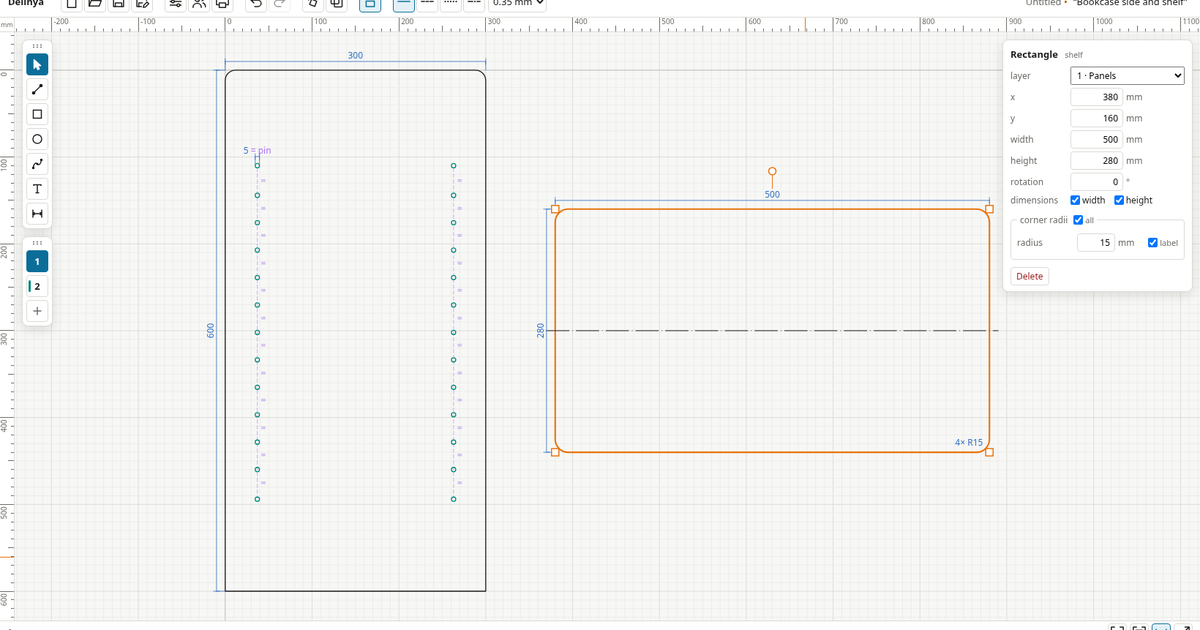
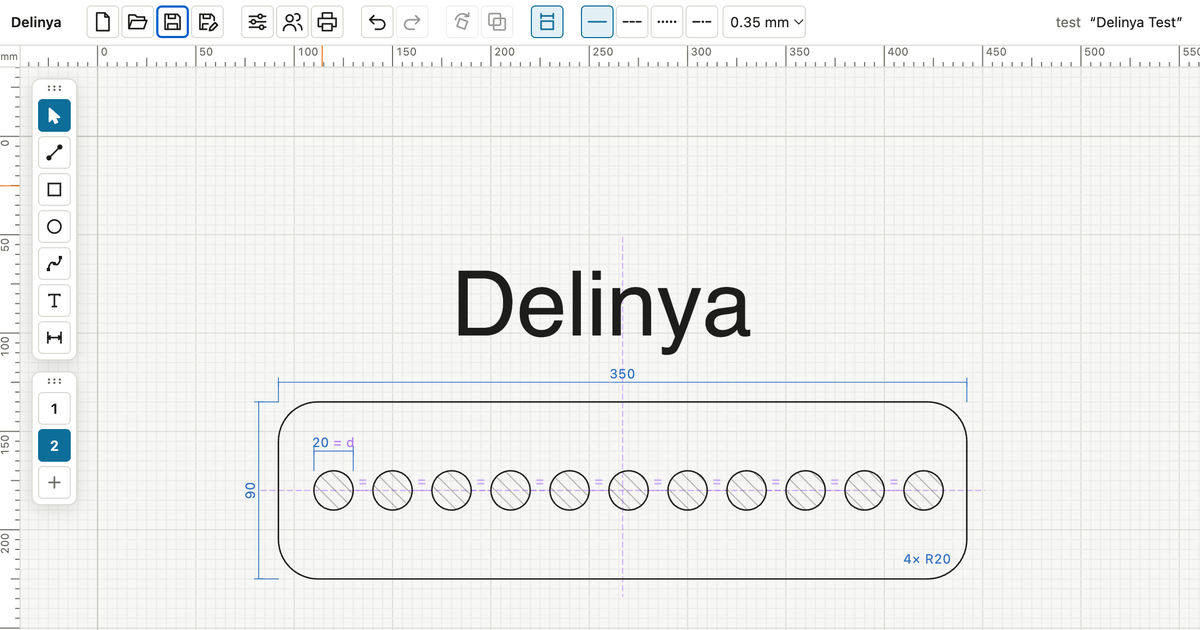
delinya.org: new hero screenshot and OpenGraph image
A plate with R20 corners and a row of linked, evenly spaced holes,
cleaned of the window's rounded corners and bottom border. The hero
gains a 1240w size for retina screens; opengraph.png is its top crop.

diff --git a/plans/status.md b/plans/status.md
@@ -1122,9 +1122,11 @@ reference generator and screenshot scripts.
   `ThemeSelect.astro` renders nothing (overrides in `astro.config.mjs`);
   `src/styles/starlight.css` sets the accent and greys. Logo and favicon
   are the app's `public/favicon.svg` (copied; a test checks they match).
-  The hero (`src/assets/hero.png`) and `public/opengraph.png` are a
-  screenshot of the app (a bookcase side with linked shelf-pin holes and a
-  4× R15 shelf), made on the dev server by scripting the store.
+  The hero (`src/assets/hero.png`) is a 2× screenshot of the app (a
+  350 × 90 plate with R20 corners, eleven evenly spaced hatched holes
+  linked to `d`, and "Delinya" in text above), with the window's rounded
+  corners and bottom border cleaned off; `public/opengraph.png` is its top
+  1200 × 630 crop.
 - **Docs**: Introduction, Getting started, then autogenerated Guide
   (drawing shapes, paths, text, selecting and editing, dimensions, links,
   layers, line styles, rotate and duplicate, files, printing and export,
